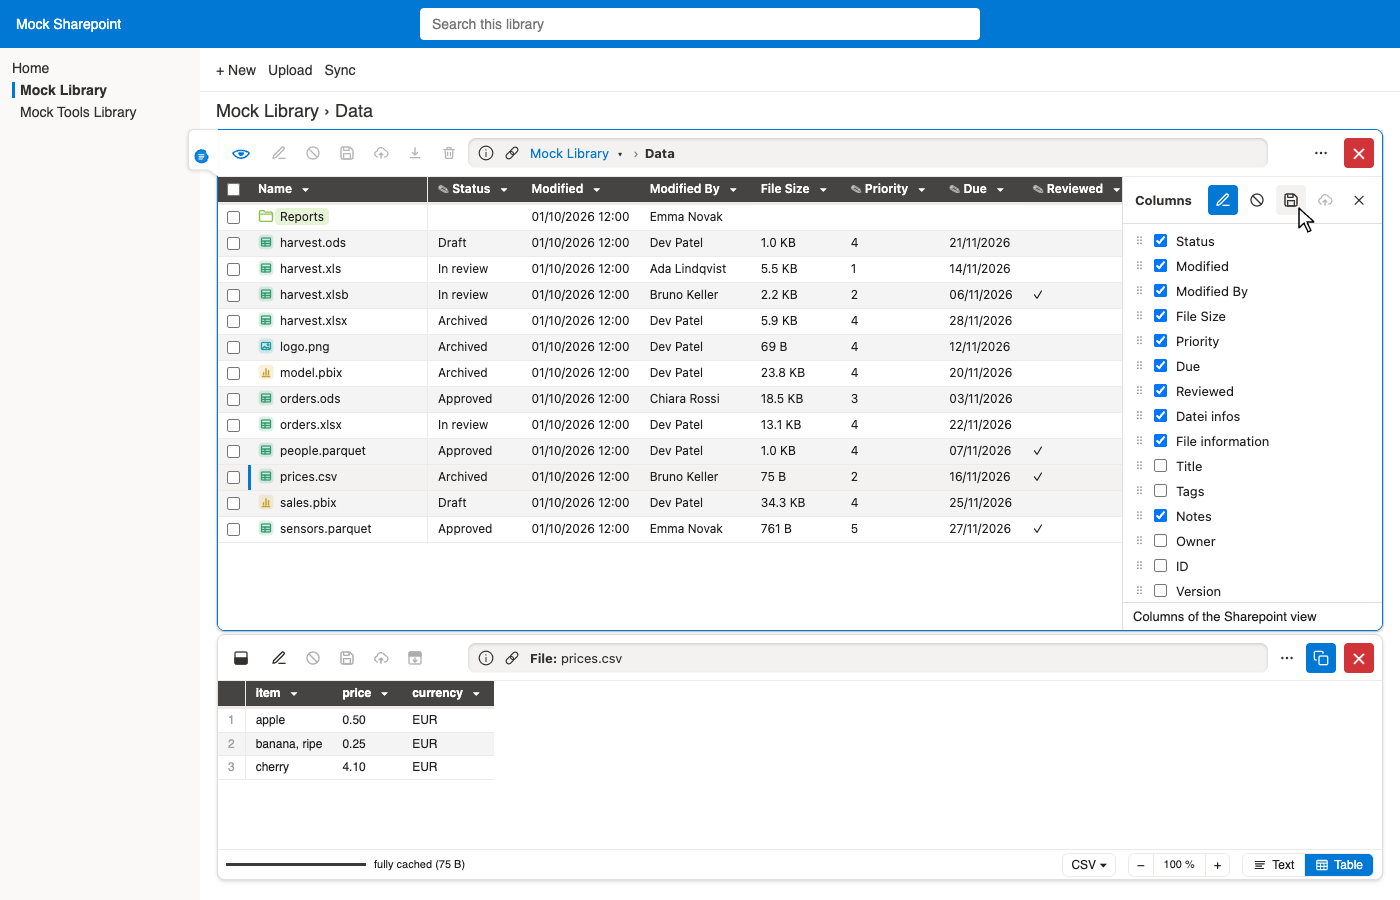
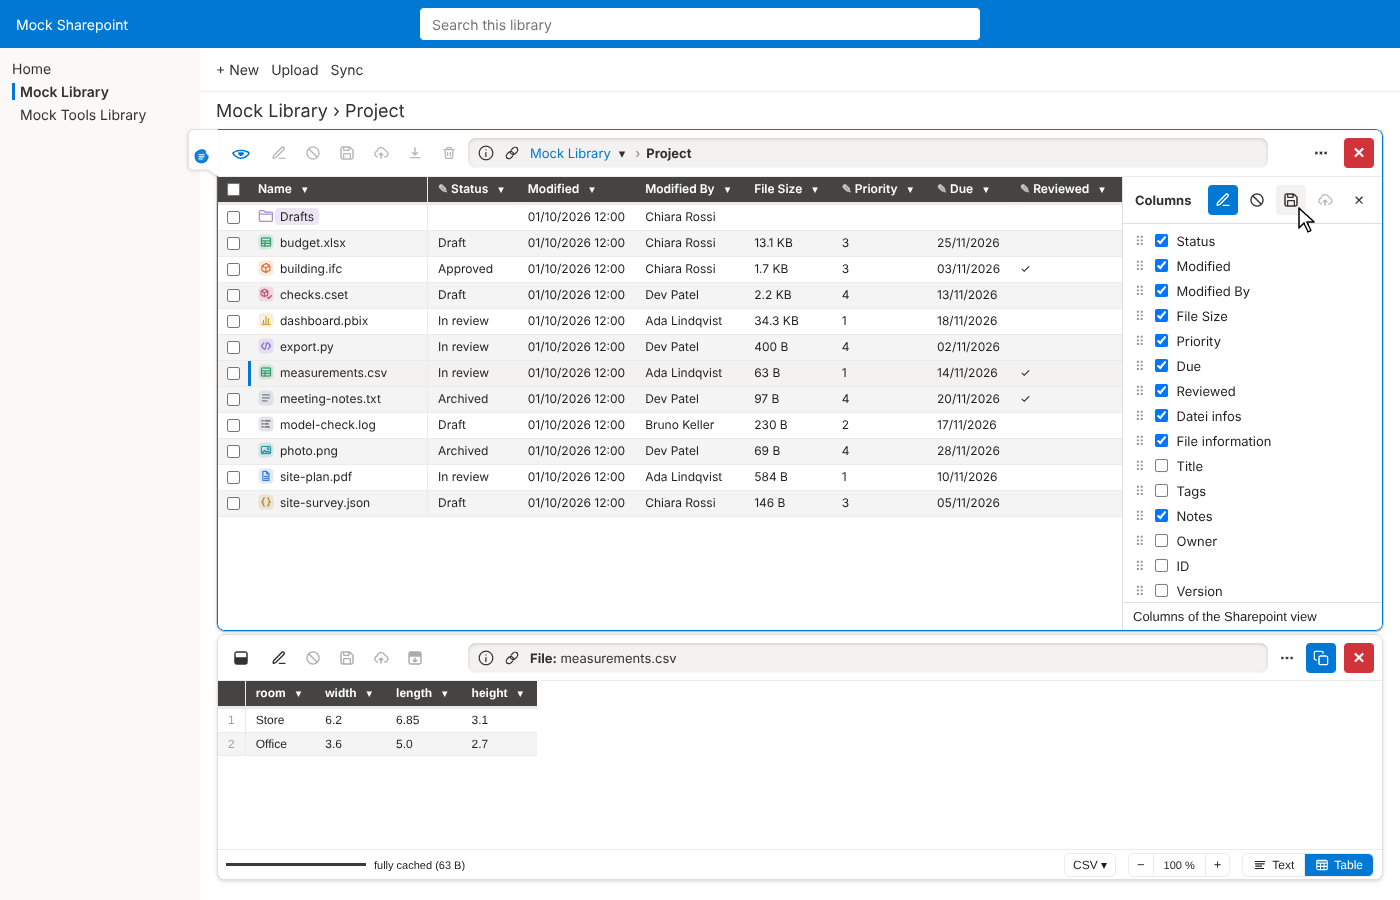
dev-zen-colours > staging: demos: Zen mode on a folder with every kind of file (all colours)
- mock library: folder `Project` (invented files: text, log, ruleset, PDF, Power BI, JSON, CSV, Excel, Python, IFC,
  image; sub-folder `Drafts` with a Sharepoint folder colour)
- screenshots `zen-alone`, `zen-dark`, `zen-layout`, `zen-edit` and the hero's Zen scenes taken there
- images without metadata (C2PA stripped)

Maintainer: raj-open <raj-open@users.noreply.github.com>

diff --git a/scripts/demos.ts b/scripts/demos.ts
@@ -143,7 +143,7 @@ const CASES: Record<string, Case> = {
         pointer: (page) => page.locator('.tp-zen-tab'),
     },
     'zen-alone': {
-        folder: '/Data',
+        folder: '/Project', // all kinds of files: icons in all their colours
         before: async (page) => {
             await page.locator('.tp-zen-tab').click();
             await page.locator('.tp-zen .tp-zen-row').first().waitFor();
@@ -159,8 +159,8 @@ const CASES: Record<string, Case> = {
         },
     },
     'zen-dark': {
-        folder: '/Data',
-        file: 'prices.csv',
+        folder: '/Project', // all kinds of files: icons in all their colours
+        file: 'measurements.csv',
         settings: { theme: 'dark' },
         steps: async (page) => {
             await zen(page);
@@ -180,8 +180,8 @@ const CASES: Record<string, Case> = {
     },
     // layout mode: columns menu open, one column hidden, one moved (a draft, not saved yet)
     'zen-layout': {
-        folder: '/Data',
-        file: 'prices.csv',
+        folder: '/Project', // all kinds of files: icons in all their colours
+        file: 'measurements.csv',
         steps: async (page) => {
             await zen(page);
             const z = page.locator('.tp-zen');
@@ -211,13 +211,13 @@ const CASES: Record<string, Case> = {
         pointer: (page) => page.locator('.tp-zen .tp-bar-btn[title^="Download"]'),
     },
     'zen-edit': {
-        folder: '/Data',
-        file: 'prices.csv',
+        folder: '/Project', // all kinds of files: icons in all their colours
+        file: 'measurements.csv',
         steps: async (page) => {
             await zen(page);
             const z = page.locator('.tp-zen');
             await z.locator('.tp-bar-btn[title^="Edit"]').click();
-            const row = z.locator('tr.tp-zen-row', { hasText: 'people.parquet' });
+            const row = z.locator('tr.tp-zen-row', { hasText: 'budget.xlsx' });
             await row.locator('select').first().selectOption('Draft');
             const priority = row.locator('.tp-zen-text[contenteditable]').nth(1); // after the name: Priority
             await priority.click();
@@ -229,7 +229,7 @@ const CASES: Record<string, Case> = {
             await z.locator('td.tp-zen-error').waitFor();
             // a change not saved yet
             const due = z
-                .locator('tr.tp-zen-row', { hasText: 'sales.pbix' })
+                .locator('tr.tp-zen-row', { hasText: 'dashboard.pbix' })
                 .locator('.tp-zen-text[contenteditable]')
                 .nth(2);
             await due.click();
@@ -817,7 +817,7 @@ const HERO: Story[] = [
         ],
     },
     {
-        folder: '/Data',
+        folder: '/Project', // all kinds of files: icons in all their colours
         beats: [
             {
                 caption: 'Zen mode: the folder with all its properties',
@@ -834,7 +834,7 @@ const HERO: Story[] = [
                     await page.locator('.tp-zen th .tp-sort', { hasText: 'Status' }).click();
                     await page.locator('.tp-zen th .tp-sort', { hasText: '▲' }).waitFor();
                     await page.locator('.tp-zen .tp-bar .tp-bar-btn[title^="Edit"]').click();
-                    const row = page.locator('.tp-zen tr.tp-zen-row', { hasText: 'prices.csv' });
+                    const row = page.locator('.tp-zen tr.tp-zen-row', { hasText: 'measurements.csv' });
                     const select = row.locator('select.tp-zen-input').first();
                     await select.waitFor();
                     const now = await select.inputValue();
@@ -857,8 +857,8 @@ const HERO: Story[] = [
                 hold: 3,
                 act: async (page, v) => {
                     await page.locator('.tp-zen .tp-bar-btn[title^="Edit"]').click(); // edit mode off
-                    await tap(page, page.locator('.tp-zen td.tp-zen-name', { hasText: 'prices.csv' })); // into the viewer
-                    await v.locator('.tp-title-name', { hasText: 'prices.csv' }).waitFor();
+                    await tap(page, page.locator('.tp-zen td.tp-zen-name', { hasText: 'measurements.csv' })); // into the viewer
+                    await v.locator('.tp-title-name', { hasText: 'measurements.csv' }).waitFor();
                     await v.locator('.tp-mode-btn[title="More"]').click();
                     await tap(page, v.locator('.tp-menu-item', { hasText: 'Dark mode' }));
                     await page.locator('.tp-zen.tp-dark').waitFor();

diff --git a/tests/mocks/mock-sharepoint/properties.ts b/tests/mocks/mock-sharepoint/properties.ts
@@ -225,8 +225,8 @@ function itemJson(store: Store, folder: string, e: Entry): Record<string, unknow
         FSObjType: e.folder ? 1 : 0,
         _UIVersionString: store.values[orig] ? '2.0' : '1.0',
         File: e.folder ? null : { Length: String(e.size) }, // $expand=File (Edm.Int64 as text)
-        // folder colour (Sharepoint's hidden field _ColorHex; 0 or empty: default): one folder coloured
-        OData__ColorHex: e.folder ? (e.name === 'Reports' ? '11' : '0') : null,
+        // folder colour (Sharepoint's hidden field _ColorHex; 0 or empty: default): a few folders coloured
+        OData__ColorHex: e.folder ? ({ Reports: '11', Drafts: '14' }[e.name] ?? '0') : null,
     };
     const texts: Record<string, string> = {};
     for (const f of FIELDS) {

diff --git a/tests/mocks/mock-sharepoint/library/Project/export.py b/tests/mocks/mock-sharepoint/library/Project/export.py
@@ -1,0 +1,13 @@
+"""Exports the room list of the survey as CSV."""
+
+import csv
+import json
+
+
+def export(survey: str, out: str) -> None:
+    with open(survey, encoding="utf-8") as f:
+        rooms = json.load(f)["rooms"]
+    with open(out, "w", newline="", encoding="utf-8") as f:
+        writer = csv.writer(f)
+        writer.writerow(["name", "area"])
+        writer.writerows([r["name"], r["area"]] for r in rooms)
